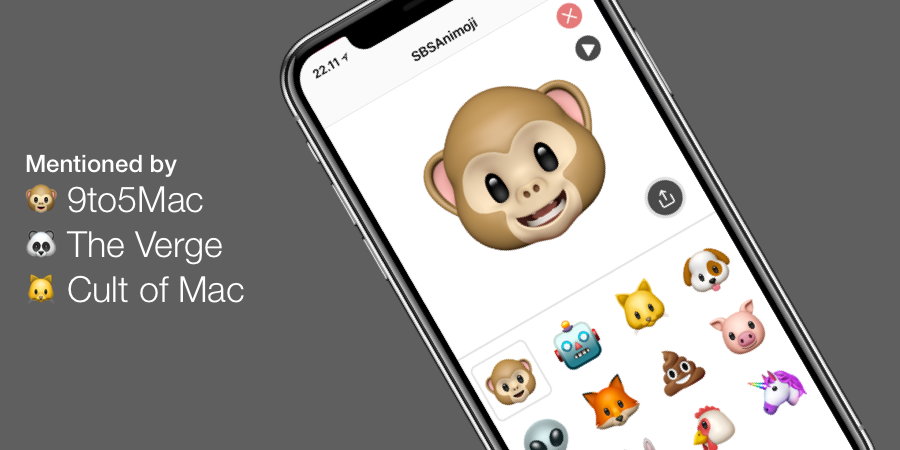
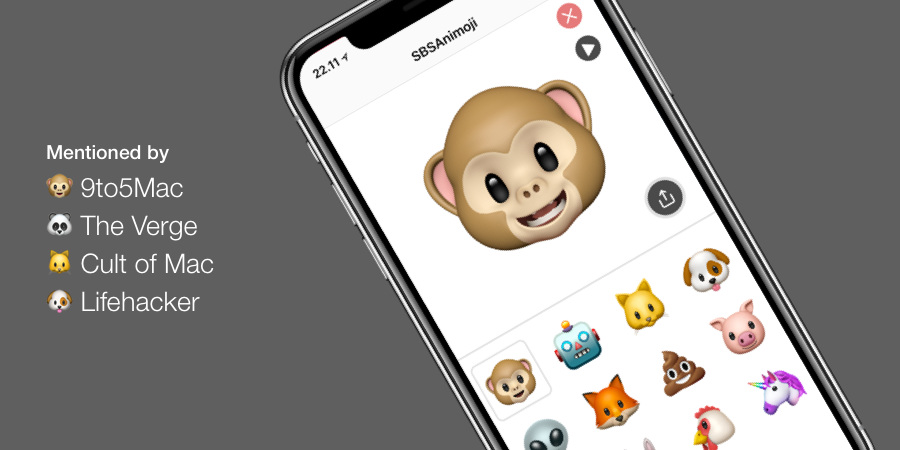
Adds Lifehacker

Changed region(s): [[0.0311, 0.3111, 0.28, 0.7156]]

diff --git a/apps/sbsanimoji/index.html b/apps/sbsanimoji/index.html
@@ -166,6 +166,7 @@
   <li><a href="https://9to5mac.com/2017/11/06/standalone-animoji-app-ios/">9to5Mac</a></li>
   <li><a href="https://www.theverge.com/2017/11/7/16617018/sbsanimoji-app-animoji-developer">The Verge</a></li>
   <li><a href="https://www.cultofmac.com/512661/animoji-hack/">Cult of Mac</a></li>
+  <li><a href="https://lifehacker.com/make-your-animoji-videos-twice-as-long-with-this-unoffi-1820256820">Lifehacker</a></li>
   <li><a href="https://www.phonearena.com/news/iOS-developer-creates-stand-alone-Animoji-app-with-longer-recording-time_id99588">PhoneArena</a></li>
 </ul>
 
